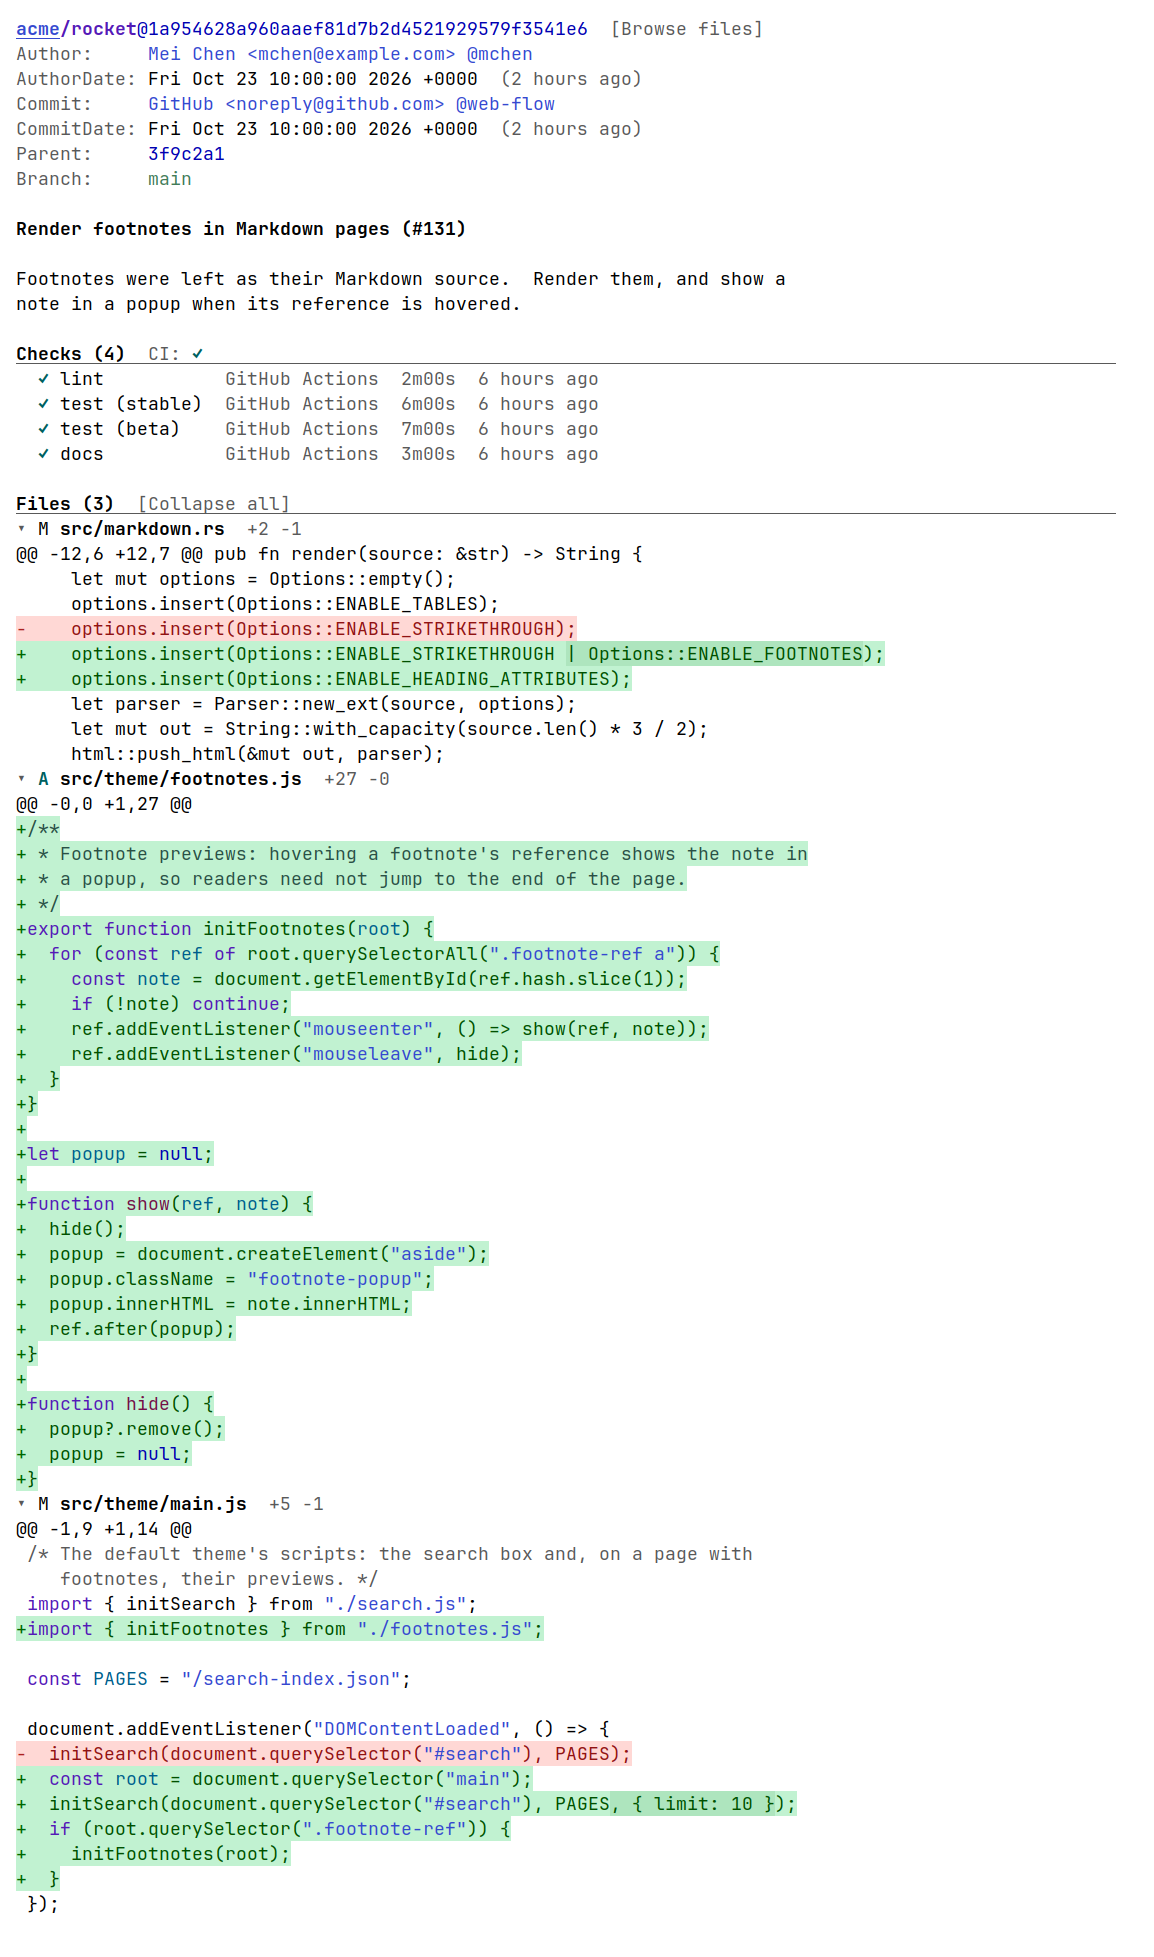
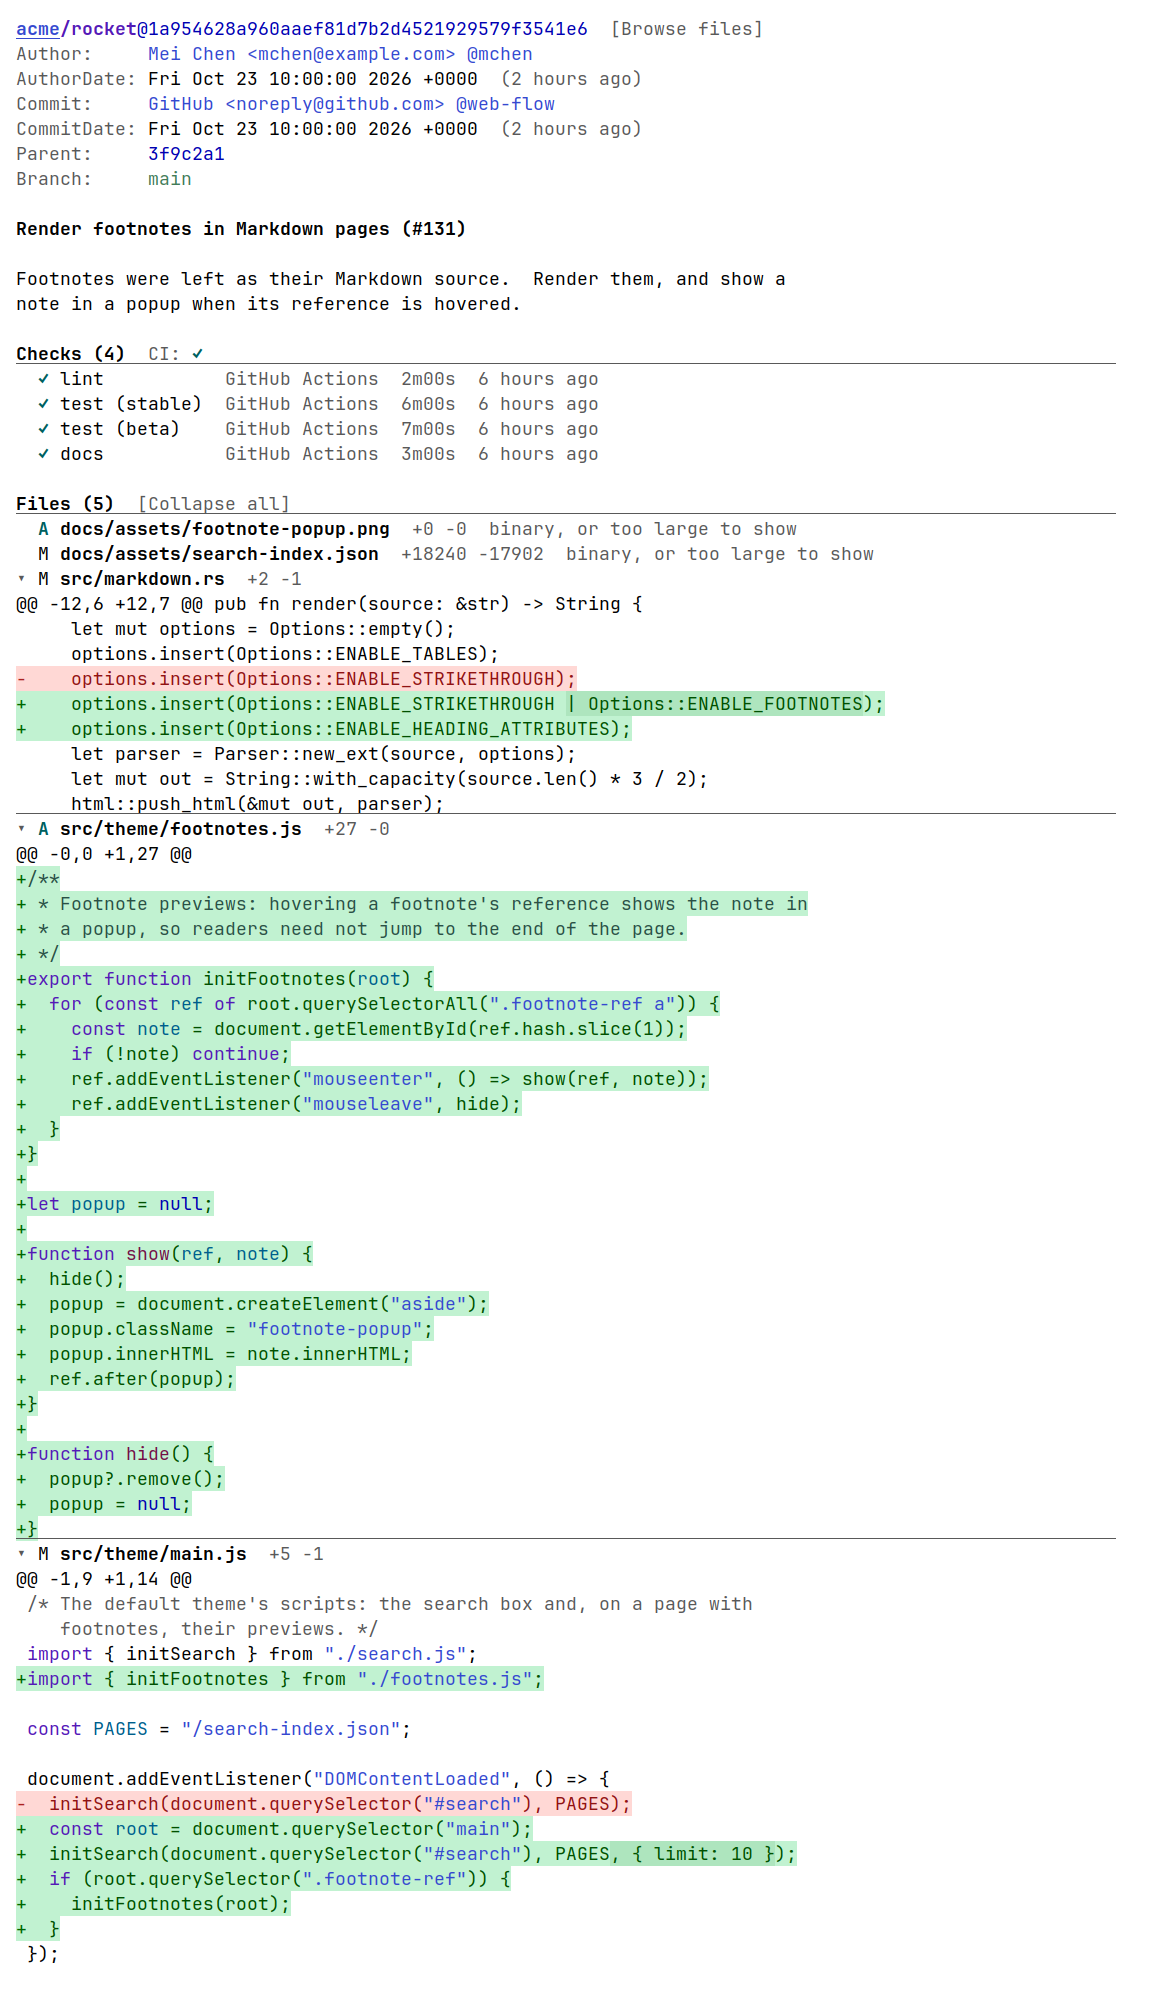
End an unfolded file's diff in a line across the page
The line sets each file's diff apart from the next file's heading,
once the file is unfolded to its end; the last file has none.  The
commit screenshot now has a binary file and one too large to diff.

diff --git a/docs/screenshots/README.md b/docs/screenshots/README.md
@@ -132,7 +132,8 @@ them, its message, its checks and its files.
 
 Its files, unfolded, are in the diff faces, the code highlighted as
 its major mode would; here JavaScript, as `js-mode` does.  An added
-file is highlighted whole, as the file itself:
+file is highlighted whole, as the file itself.  A binary file, and one
+whose diff is too large for GitHub to send, show no diff:
 
 <!-- screenshot: (commit "acme/rocket" "1a954628a960aaef81d7b2d4521929579f3541e6") :name "commit-diff" :press ("Expand all") -->
 ![commit-diff](commit-diff.png)

diff --git a/CHANGELOG.md b/CHANGELOG.md
@@ -4,6 +4,7 @@ All notable changes to this project will be documented in this file.
 The format is based on [Keep a Changelog](https://keepachangelog.com/en/1.0.0/).
 
 ## [Unreleased]
+* An unfolded file's diff ends in a line across the page, setting it apart from the next file
 * Diffs mark the words changed within a line, as `diff-refine-hunk` does
 * A diff's file names are bold; only the A, D or R before one is coloured
 * Diffs highlight their code as its major mode would, under the added and removed faces
